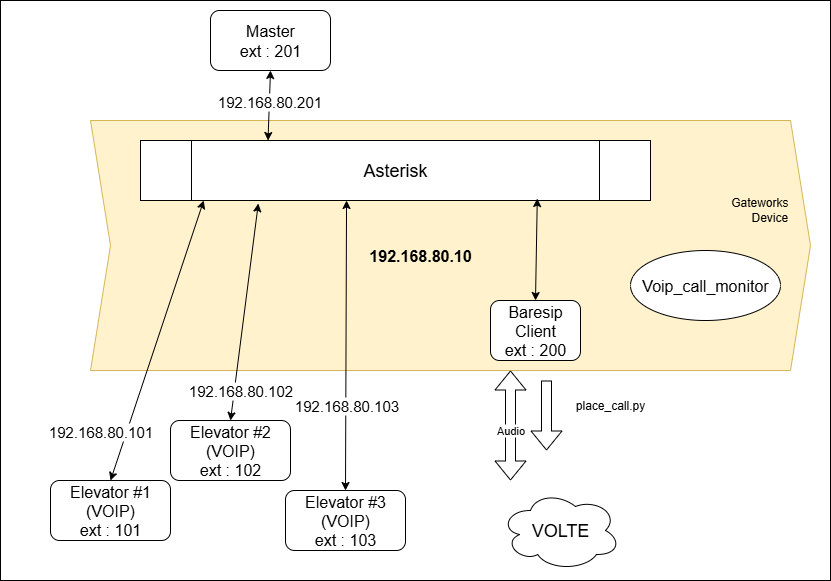
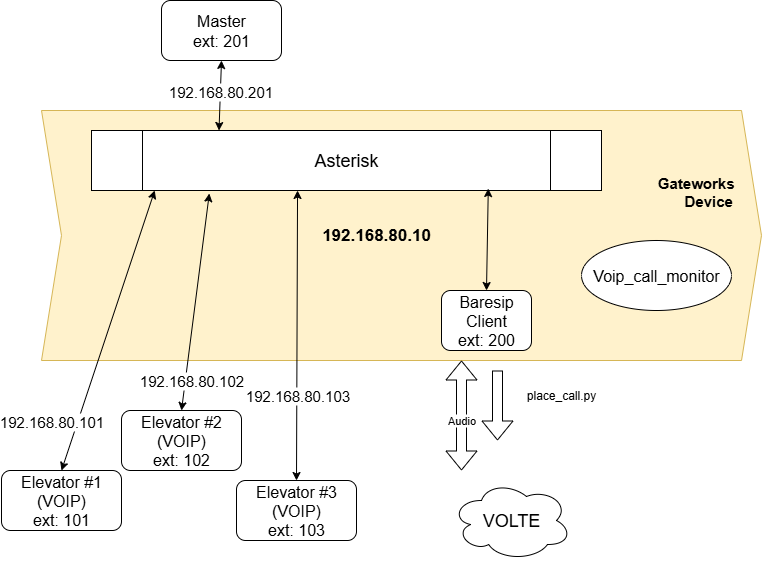
feat: Change to include elevator number
GateworkVOIPProgramming.md - reorder the instruction about disabling the
eth0

README.md - updated to capture reorg of repo.

VOIP/VOIPLayout.png - added so docs would be able to find the image.
VOIP/VOIPLayout.drawio - source for the .png

VOIP/voip_call_monitor_tcp.py - added code to capture the calling
extension.

place_call.py - added command line option to set the Elevator number.

 On branch br_conf_call
 Changes to be committed:
	modified:   GateworkVOIPProgramming.md
	modified:   README.md
	modified:   VOIP/VOIPLayout.png
	modified:   VOIP/voip_call_monitor_tcp.py
	modified:   place_call.py

diff --git a/VOIP/voip_call_monitor_tcp.py b/VOIP/voip_call_monitor_tcp.py
@@ -29,17 +29,63 @@ EVENT_CALL_INCOMING = "CALL_INCOMING"
 EVENT_CALL_RINGING = "CALL_RINGING"
 
 
-def get_audio_routing_cmd(phone_number, skip_rerouting=False):
-    """Construct the audio routing command with the given phone number
+def extract_extension_from_uri(peeruri):
+    """Extract two-digit extension from peer URI
+
+    Args:
+        peeruri: The peer URI from baresip event (e.g., "sip:12@192.168.1.100")
+
+    Returns:
+        String containing two-digit extension, or "01" as default
+    """
+    if not peeruri:
+        return "01"
+
+    # Extract the user part from SIP URI (before @)
+    # Example: "sip:12@192.168.1.100" -> "12"
+    try:
+        # Remove sip: prefix if present
+        uri = peeruri.replace("sip:", "")
+        # Get the part before @
+        user_part = uri.split("@")[0]
+
+        # Ensure it's numeric and pad to 2 digits if needed
+        if user_part.isdigit():
+            extension = user_part.zfill(2)  # Pad with leading zero if single digit
+            logging.info(f"Extracted extension: {extension} from URI: {peeruri}")
+            return extension
+        else:
+            logging.warning(
+                f"Non-numeric extension in URI: {peeruri}, using default '01'"
+            )
+            return "01"
+    except Exception as e:
+        logging.warning(
+            f"Failed to parse extension from URI {peeruri}: {e}, using default '01'"
+        )
+        return "01"
+
+
+def get_audio_routing_cmd(phone_number, extension="01", skip_rerouting=False):
+    """Construct the audio routing command with the given phone number and extension
 
     Args:
         phone_number: Phone number to dial
+        extension: Two-digit extension/elevator number (default: "01")
         skip_rerouting: If True, adds -r flag to skip audio re-routing
 
     Returns:
         List of command arguments for subprocess
     """
-    cmd = ["/usr/bin/python3", "/mnt/data/place_call.py", "-n", phone_number, "-v"]
+    cmd = [
+        "/usr/bin/python3",
+        "/mnt/data/place_call.py",
+        "-n",
+        phone_number,
+        "-e",
+        extension,
+        "-v",
+    ]
     if skip_rerouting:
         cmd.append("-r")
     return cmd
@@ -294,14 +340,21 @@ def monitor_baresip_socket(sock, phone_number, skip_rerouting=False, stop_event=
 
                         # Store the call ID for later use
                         current_call_id = event.get("id")
+
+                        # Extract extension from peer URI
+                        peeruri = event.get("peeruri", "")
+                        extension = extract_extension_from_uri(peeruri)
+
                         logging.info(
-                            f"Call established (ID: {current_call_id}). Routing audio"
-                            " call..."
+                            f"Call established (ID: {current_call_id}, "
+                            f"Extension: {extension}). Routing audio call..."
                         )
                         call_in_progress = True
 
                         # Launch place_call.py
-                        audio_cmd = get_audio_routing_cmd(phone_number, skip_rerouting)
+                        audio_cmd = get_audio_routing_cmd(
+                            phone_number, extension, skip_rerouting
+                        )
                         logging.info(f"Executing: {' '.join(audio_cmd)}")
                         audio_proc = subprocess.Popen(
                             audio_cmd,

diff --git a/place_call.py b/place_call.py
@@ -938,6 +938,13 @@ if __name__ == "__main__":
         action="store_true",
         help="Skip sending TCP packet before call",
     )
+    parser.add_argument(
+        "-e",
+        "--elevator",
+        type=str,
+        help="Elevator number (two digits)",
+        default="01",
+    )
     args = parser.parse_args()
 
     serial_connection = serial.Serial()
@@ -950,10 +957,12 @@ if __name__ == "__main__":
 
             # Build the event data packet
             event_data = (
-                f"START CID=5822460189|AC=C12345|EC=01|MDL=Q01|APP=03020089|CRC = BEEF|"
+                f"START CID=5822460189|AC=C12345|EC={args.elevator}|MDL=Q01|"
+                f"APP=03020089|CRC = BEEF|"
                 f"BOOT = 03010007|TSPV=25.21.260-P0F.261803|CCI={iccid}|"
                 f"IMSI={imsi}|IMEI={imei}|"
-                f"NET=4G|APN=broadband|IMS=1|SS=067|RSRP=098|RSRQ=011|TMP1=+020|TMP2=+020|"
+                f"NET=4G|APN=broadband|IMS=1|SS=067|RSRP=098|RSRQ=011|"
+                f"TMP1=+020|TMP2=+020|"
                 f"BAT=1305|ZLST=01|STM=0450946E|UTM=02EBA09E|RST=0|PIN=1|THW=1.10 END"
             )
 

diff --git a/README.md b/README.md
@@ -2,6 +2,105 @@
 
 This repository contains scripts, configurations, and documentation for the King3 embedded system project, which includes VoIP functionality, cellular modem integration, and audio routing on Gateworks hardware platforms.
 
+## Directory Tree (as of October 22, 2025)
+
+```bash
+King3-build/
+├── 99-ignore-modemmanager.rules
+├── asound.state
+├── check_reg.py
+├── config_sys.sh
+├── daemon.conf
+├── digi-config
+├── GateworksProgrammingInstr.md
+├── GateworkVOIPProgramming.md
+├── gw-venice-gpio-overlay.dts
+├── imx8mm-venice-gw7xxx-0x-gpio.dtbo
+├── InitialProgrammingInstr.md
+├── justfile
+├── led_blue.sh
+├── led_green.sh
+├── led_red.sh
+├── microcom.alias
+├── PACKAGE_SUMMARY.md
+├── place_call.py
+├── POC_NOTE.md
+├── pulseaudio.modded.service
+├── pulseaudio.service
+├── pyproject.toml
+├── README.md
+├── switch_detect.sh
+├── switch_mon.service
+├── switch_mon.sh
+├── TF-config
+├── VERSIONING_AND_INTEGRITY.md
+├── common/
+├── explore/
+│   ├── BARESIP_TCP_API.md
+│   ├── EDC_packet.py
+│   ├── EDC_packet_direct.py
+│   ├── extract_dev.py
+│   ├── PLACE_CALL_FIX.md
+│   ├── start.sh
+│   └── VOIP_MONITOR_CHANGELOG.md
+├── integrity-system/
+│   ├── QUICK_REFERENCE.txt
+│   ├── README.txt
+│   ├── VERSION
+│   ├── check_modifications.sh
+│   ├── commit_authorized_changes.sh
+│   ├── generate_checksums.sh
+│   ├── generate_version.sh
+│   ├── init_deployment.sh
+│   ├── integrity_monitor.py
+│   ├── integrity_monitor.service
+│   ├── integrity_monitor.timer
+│   ├── justfile.patch
+│   ├── show_version.sh
+│   ├── verify_installation.sh
+│   └── version_info.py
+├── sounds/
+│   ├── ENU00012.wav
+│   ├── ENU00209-48k.wav
+│   ├── ENU00209.wav
+│   ├── ENU00439.wav
+│   ├── ENU00456-48k.wav
+│   ├── ENU00456.wav
+│   ├── ENU00459.wav
+│   ├── S0000209.wav
+│   ├── S0000300.wav
+│   ├── S0000301.wav
+│   ├── S0000302.wav
+│   ├── S0000303-48k.wav
+│   ├── S0000303.wav
+│   ├── S0000304.wav
+│   └── S0000305.wav
+├── VOIP/
+│   ├── interfaces
+│   ├── setup_audio_routing.sh
+│   ├── setup_telit_routing.sh
+│   ├── teardown_audio_routing.sh
+│   ├── teardown_telit_routing.sh
+│   ├── voip_call_monitor.service
+│   ├── voip_call_monitor_tcp.py
+│   ├── voip_call_rerouting.py
+│   ├── voip_config.sh
+│   ├── VOIPLayout.drawio
+│   ├── VOIPLayout.png
+│   ├── asterisk/
+│   │   ├── asterisk.override.conf
+│   │   ├── barge_notes.md
+│   │   ├── confbridge.conf
+│   │   ├── extensions.conf
+│   │   ├── modules.conf
+│   │   └── pjsip.conf
+│   ├── baresip/
+│   │   ├── accounts
+│   │   └── config
+│   └── pulseaudio/
+│       └── default.pa
+```
+
 ## Project Files
 
 ### Shell Scripts
@@ -12,13 +111,20 @@ This repository contains scripts, configurations, and documentation for the King
 | `led_blue.sh` | `.` | Controls the blue LED on/off (GPIO control for status indication) |
 | `led_green.sh` | `.` | Controls the green LED on/off on GPIO 9 (Gateworks GW7200 board) |
 | `led_red.sh` | `.` | Controls the red LED on/off on GPIO 26 (Gateworks GW7200 board) |
-| `setup_audio_routing.sh` | `.` | Sets up PulseAudio loopback modules for routing audio between USB headset and SGTL5000 sound card |
-| `setup_telit_routing.sh` | `.` | Configures PulseAudio loopback modules for routing audio between Telit LE910C1 modem and SGTL5000 sound card |
-| `start.sh` | `.` | Docker container startup script for DEY 4.0 development environment |
+| `setup_audio_routing.sh` | `VOIP/` | Sets up PulseAudio loopback modules for routing audio between USB headset and SGTL5000 sound card |
+| `setup_telit_routing.sh` | `VOIP/` | Configures PulseAudio loopback modules for routing audio between Telit LE910C1 modem and SGTL5000 sound card |
+| `start.sh` | `explore/` | Docker container startup script for DEY 4.0 development environment |
 | `switch_detect.sh` | `.` | Emergency switch press handler that plays audio alert and initiates emergency call |
 | `switch_mon.sh` | `.` | GPIO monitoring service that detects switch press events and triggers the switch_detect script |
-| `teardown_audio_routing.sh` | `.` | Removes PulseAudio loopback modules for headset audio routing |
-| `teardown_telit_routing.sh` | `.` | Removes PulseAudio loopback modules for Telit modem audio routing |
+| `teardown_audio_routing.sh` | `VOIP/` | Removes PulseAudio loopback modules for headset audio routing |
+| `teardown_telit_routing.sh` | `VOIP/` | Removes PulseAudio loopback modules for Telit modem audio routing |
+| `show_version.sh` | `integrity-system/` | Displays current version info |
+| `check_modifications.sh` | `integrity-system/` | Checks for unauthorized modifications |
+| `commit_authorized_changes.sh` | `integrity-system/` | Commits authorized changes |
+| `generate_checksums.sh` | `integrity-system/` | Generates checksums for integrity verification |
+| `generate_version.sh` | `integrity-system/` | Generates version info |
+| `init_deployment.sh` | `integrity-system/` | Initializes deployment |
+| `verify_installation.sh` | `integrity-system/` | Verifies installation integrity |
 
 
 
@@ -27,12 +133,14 @@ This repository contains scripts, configurations, and documentation for the King
 | Filename | Directory | Description |
 |----------|-----------|-------------|
 | `check_reg.py` | `.` | Checks cellular network registration status via AT commands to the Telit modem |
-| `EDC_packet.py` | `.` | TCP packet transmission using Telit LE910C1 modem with AT commands for event data communication |
-| `EDC_packet_direct.py` | `.` | Direct TCP socket implementation for sending event packets without using modem AT commands |
-| `extract_dev.py` | `.` | Extracts USB device interface numbers from PulseAudio source list (used for Telit modem detection) |
+| `EDC_packet.py` | `explore/` | TCP packet transmission using Telit LE910C1 modem with AT commands for event data communication |
+| `EDC_packet_direct.py` | `explore/` | Direct TCP socket implementation for sending event packets without using modem AT commands |
+| `extract_dev.py` | `explore/` | Extracts USB device interface numbers from PulseAudio source list (used for Telit modem detection) |
 | `place_call.py` | `.` | Initiates VoIP calls using baresip, handles audio routing, and logs call events |
-| `voip_call_rerouting.py` | `.` | Monitors baresip output and automatically reroutes audio when calls are established |
-| `Wait-answer.py` | `.` | Monitors baresip FIFO for incoming calls and automatically answers after a configurable delay |
+| `voip_call_rerouting.py` | `VOIP/` | Monitors baresip output and automatically reroutes audio when calls are established |
+| `integrity_monitor.py` | `integrity-system/` | Monitors system integrity and reports unauthorized changes |
+| `version_info.py` | `integrity-system/` | Provides version information |
+| `voip_call_monitor_tcp.py` | `VOIP/` | Monitors VoIP calls over TCP |
 
 ### Markdown Documentation
 
@@ -42,8 +150,12 @@ This repository contains scripts, configurations, and documentation for the King
 | `GateworkVOIPProgramming.md` | `.` | Programming instructions specific to VoIP solution on Gateworks Venice board with PoE configuration |
 | `InitialProgrammingInstr.md` | `.` | Initial programming instructions for Digiboard CC6 using UUU tool and firmware flashing |
 | `POC_NOTE.md` | `.` | Important notes and limitations about the POC (Proof of Concept) units including security warnings |
-
-
+| `BARESIP_TCP_API.md` | `explore/` | Documentation for Baresip TCP API |
+| `PLACE_CALL_FIX.md` | `explore/` | Notes on place call fixes |
+| `VOIP_MONITOR_CHANGELOG.md` | `explore/` | Changelog for VoIP monitor |
+| `README.txt` | `integrity-system/` | Integrity system documentation |
+| `QUICK_REFERENCE.txt` | `integrity-system/` | Quick reference for integrity system |
+| `barge_notes.md` | `VOIP/asterisk/` | Notes on asterisk barge feature |
 
 ## System Overview
 

diff --git a/GateworkVOIPProgramming.md b/GateworkVOIPProgramming.md
@@ -42,9 +42,7 @@ The interface eth0 is providing power and will be configured in a later step.
 
 Make sure that eth1 has internet access.
 
-Before running updates for the packages, make sure that the eth0 is disabled, or
-the command below will fail because it will be going to a network interface that does
-not have internet access.
+
 
 ## Configuration
 
@@ -88,6 +86,9 @@ chmod ugo+w /mnt/data  /mnt/data/sounds  /mnt/data/pulse
 ```
 
 ## Packages
+
+Before running updates for the packages, make sure that the eth0 is disabled, or
+the command below will fail because it will be going to a network interface that does not have internet access.
 
 ```bash
 apt-get install -y baresip asterisk python3-serial microcom pulseaudio btop
